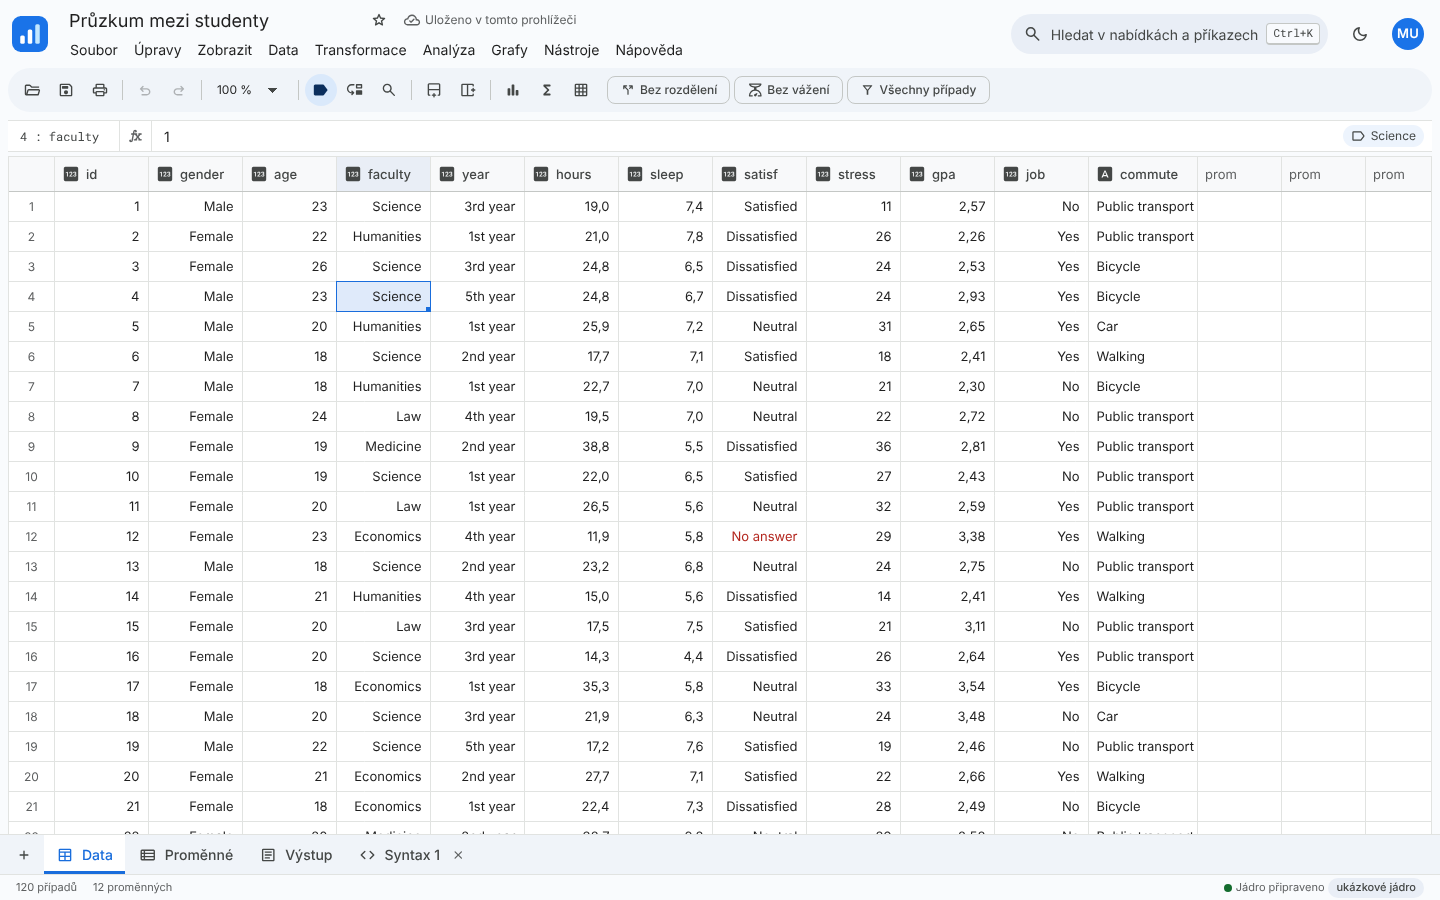
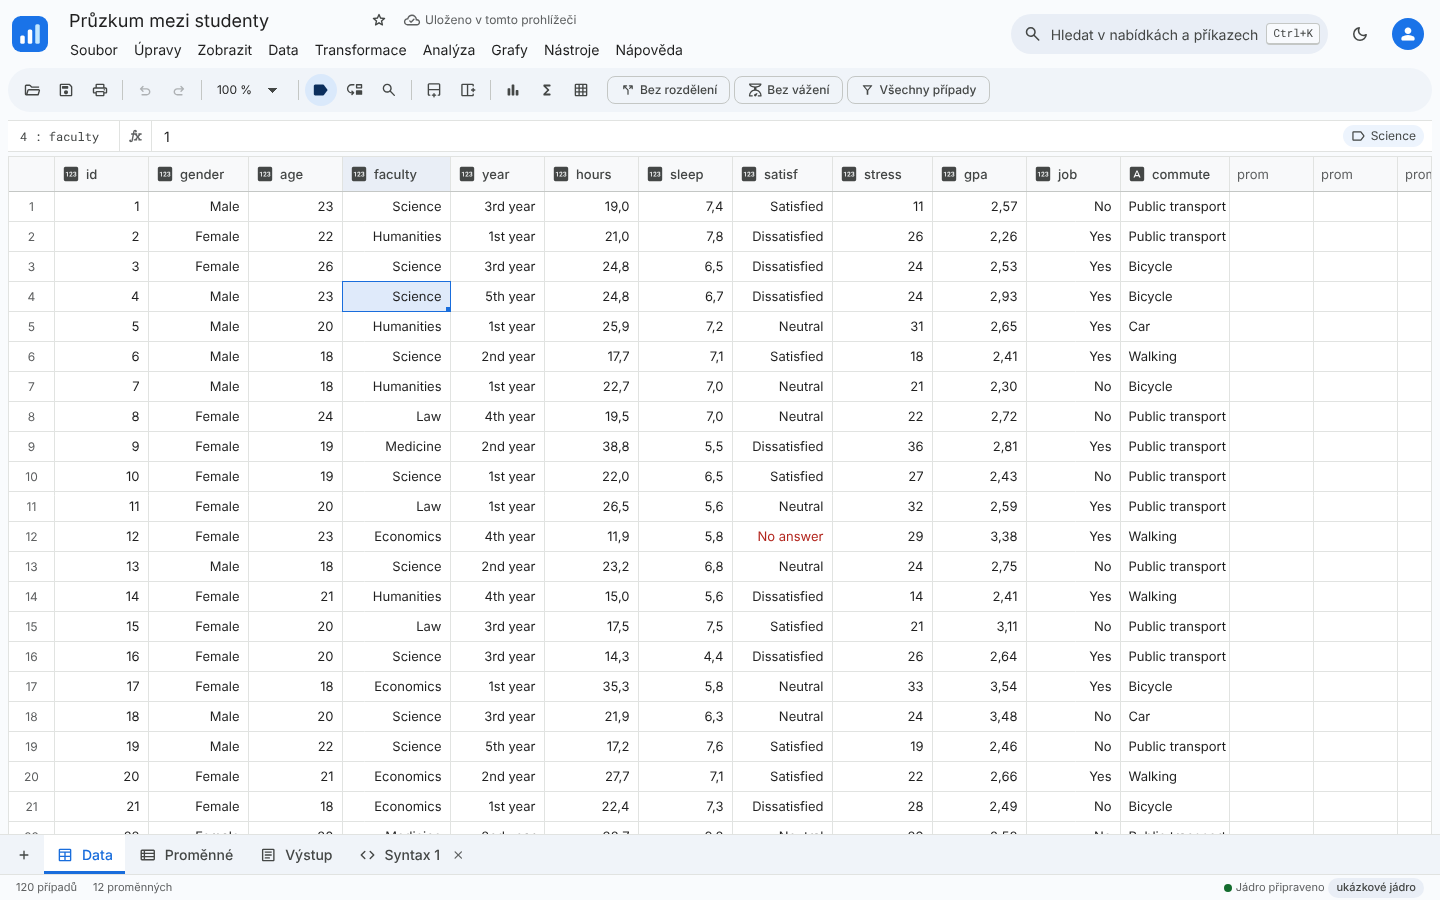
Front end: final polish, screenshots
Claude-Session: https://claude.ai/code/session_01ABMYREVguMy9UoBP9pM1iF

diff --git a/web/src/features/dialogs/DialogRenderer.tsx b/web/src/features/dialogs/DialogRenderer.tsx
@@ -514,13 +514,14 @@ export function AnalysisDialog({ spec }: { spec: DialogSpec }) {
                 <Icon name="search" />
                 <input className="input" placeholder={t('dialogs.filterVariables')} aria-label={t('dialogs.filterVariables')} value={filter} onChange={(e) => setFilter(e.target.value)} />
               </div>
-              <ul className="var-list source" role="listbox" aria-labelledby={`src-${spec.id}`} aria-multiselectable="true" tabIndex={0} onKeyDown={onSourceKey}>
+              <ul className="var-list source" role="listbox" aria-labelledby={`src-${spec.id}`} aria-multiselectable="true" tabIndex={0} onKeyDown={onSourceKey} aria-activedescendant={selectedSource.length ? `src-${spec.id}-${selectedSource[selectedSource.length - 1]}` : undefined}>
                 {variables.length === 0 && <li className="var-empty">{t('dialogs.noData')}</li>}
                 {source.map((v, i) => {
                   const on = selectedSource.includes(v.name);
                   return (
                     <li
                       key={v.name}
+                      id={`src-${spec.id}-${v.name}`}
                       role="option"
                       aria-selected={on}
                       className={on ? 'on' : ''}

diff --git a/web/src/features/shell/MenuBar.tsx b/web/src/features/shell/MenuBar.tsx
@@ -15,6 +15,7 @@ export function MenuBar() {
   const { t } = useTranslation();
   const [open, setOpen] = useState<{ index: number; keyboard: boolean } | null>(null);
   const refs = useRef<(HTMLButtonElement | null)[]>([]);
+  const [focusIdx, setFocusIdx] = useState(0);
   // re-render menus when state that affects enabled/checked changes
   useData((s) => s.revision);
   useUi((s) => `${s.view}${s.valueLabels}${s.zoom}`);
@@ -45,6 +46,8 @@ export function MenuBar() {
           aria-haspopup="menu"
           aria-expanded={open?.index === i}
           className={`menubar-item ${open?.index === i ? 'open' : ''}`}
+          tabIndex={i === focusIdx ? 0 : -1}
+          onFocus={() => setFocusIdx(i)}
           data-menu-trigger
           onClick={() => (open?.index === i ? setOpen(null) : openAt(i, false))}
           onMouseEnter={() => open && open.index !== i && openAt(i, false)}

diff --git a/web/src/styles/app.css b/web/src/styles/app.css
@@ -2240,3 +2240,28 @@ button.outline-toggle:hover {
     display: none;
   }
 }
+
+/* larger touch targets on touch devices (WCAG 2.5.5) */
+@media (pointer: coarse) {
+  .icon-btn.sm {
+    width: 44px;
+    height: 44px;
+  }
+  .tab-close {
+    width: 36px;
+    height: 36px;
+  }
+  .view-tabs {
+    height: 48px;
+  }
+  .menubar-item,
+  .menu-item {
+    min-height: 44px;
+  }
+  .var-list li {
+    min-height: 40px;
+  }
+  .btn-sm {
+    height: 40px;
+  }
+}

diff --git a/web/src/features/data/DataView.tsx b/web/src/features/data/DataView.tsx
@@ -60,7 +60,7 @@ export function DataView() {
     const cols: GridColumn[] = [];
     if (!ds) return cols;
     ds.variables.forEach((v, i) => {
-      const w = widths[i] ?? Math.round(Math.min(360, Math.max(72, v.columns * m.charWidth + 34)));
+      const w = widths[i] ?? Math.round(Math.min(360, Math.max(72, v.columns * m.charWidth + 34, v.name.length * 8 * m.zoom + 52)));
       cols.push({
         id: `v${i}-${v.name}`,
         title: v.name,

diff --git a/web/src/features/variables/VariableView.tsx b/web/src/features/variables/VariableView.tsx
@@ -274,6 +274,7 @@ export function VariableView() {
         headerHeight={m.headerHeight}
         gridSelection={selection}
         onGridSelectionChange={setSelection}
+        cellActivationBehavior="second-click"
         onCellActivated={([c, r]) => activate(c, r)}
         onCellClicked={([c, r], e) => {
           const id = COLS[c]?.id;

diff --git a/web/README.md b/web/README.md
@@ -1,0 +1,70 @@
+# PSPP Studio – web
+
+Moderní webové rozhraní pro [GNU PSPP](https://www.gnu.org/software/pspp/), které běží celé v prohlížeči.
+A modern browser front-end for GNU PSPP that runs entirely in the browser.
+
+Licence / License: GPL-3.0-or-later. Zdrojový kód / source: <https://github.com/jirkacepelka/PSPP>
+
+## Česky
+
+Požadavky: Node.js 22.
+
+```bash
+npm install
+npm run dev        # vývojový server (http://localhost:5173)
+npm run build      # kontrola typů + produkční build do dist/
+npm run preview    # náhled buildu
+npm run test       # jednotkové testy (Vitest)
+```
+
+- Statistické jádro je GNU PSPP zkompilované do WebAssembly (`public/engine/pspp.js` + `.wasm`),
+  načítá se ve Web Workeru (`src/engine/worker.ts`). Pokud jádro chybí, aplikace automaticky použije
+  ukázkové jádro v JavaScriptu (`src/engine/mock/`). Vynutit ho lze parametrem `?engine=mock`.
+- Nastavení, profil, nedávné soubory a automatické ukládání jsou v IndexedDB tohoto prohlížeče.
+- Překlady: `src/i18n/cs.json`, `src/i18n/en.json` (kontrola: `npm run i18n:check`).
+- Nové analytické dialogy: přidejte soubor do `src/features/dialogs/specs/` a zaregistrujte ho
+  v `specs/index.ts`; test syntaxe patří do `specs.test.ts`.
+- Ikony (Material Symbols) jsou podmnožina fontu; po přidání nové ikony spusťte `npm run icons`
+  (vyžaduje `pip install fonttools brotli`).
+- Snímky obrazovky: `npm run build && npx vite preview --port 4173` a pak
+  `node scripts/screenshots.cjs` (Playwright) → `docs/screenshots/`.
+- Nasazení: statický hosting (Vercel), viz `vercel.json`.
+
+## English
+
+Requirements: Node.js 22.
+
+```bash
+npm install
+npm run dev        # dev server (http://localhost:5173)
+npm run build      # type-check + production build into dist/
+npm run preview    # preview the build
+npm run test       # unit tests (Vitest)
+```
+
+- The statistics engine is GNU PSPP compiled to WebAssembly (`public/engine/pspp.js` + `.wasm`),
+  loaded in a Web Worker (`src/engine/worker.ts`). When it is missing the app falls back to a JavaScript
+  demo engine (`src/engine/mock/`); force it with `?engine=mock`.
+- Settings, profile, recent files and autosave live in this browser's IndexedDB.
+- Translations: `src/i18n/cs.json`, `src/i18n/en.json` (check with `npm run i18n:check`).
+- New analysis dialogs: add a spec file under `src/features/dialogs/specs/`, register it in
+  `specs/index.ts` and add a syntax test to `specs.test.ts`.
+- Icons are a subset of Material Symbols; run `npm run icons` after using a new icon name
+  (needs `pip install fonttools brotli`).
+- Screenshots: `npm run build && npx vite preview --port 4173`, then `node scripts/screenshots.cjs`
+  (Playwright) → `docs/screenshots/`.
+- Deployment: static hosting (Vercel), see `vercel.json`.
+
+### Layout
+
+```
+src/
+  engine/       types.ts (engine contract), client.ts, worker.ts (WASM stub), mock/ (demo engine)
+  app/          actions, menus, engine orchestration, files/autosave, theme
+  store/        Zustand stores: data (undo/redo), ui, output, syntax, settings
+  features/     shell (app bar, menus, toolbar, tabs), data, variables, syntax, output,
+                dialogs (declarative specs + renderer), settings, start, palette, misc
+  lib/          formats/dates, CSV, syntax splitting, colors, storage, PSPP command list
+  i18n/         cs.json, en.json
+  samples/      bundled sample datasets (generated by scripts/make-samples.mjs)
+```
